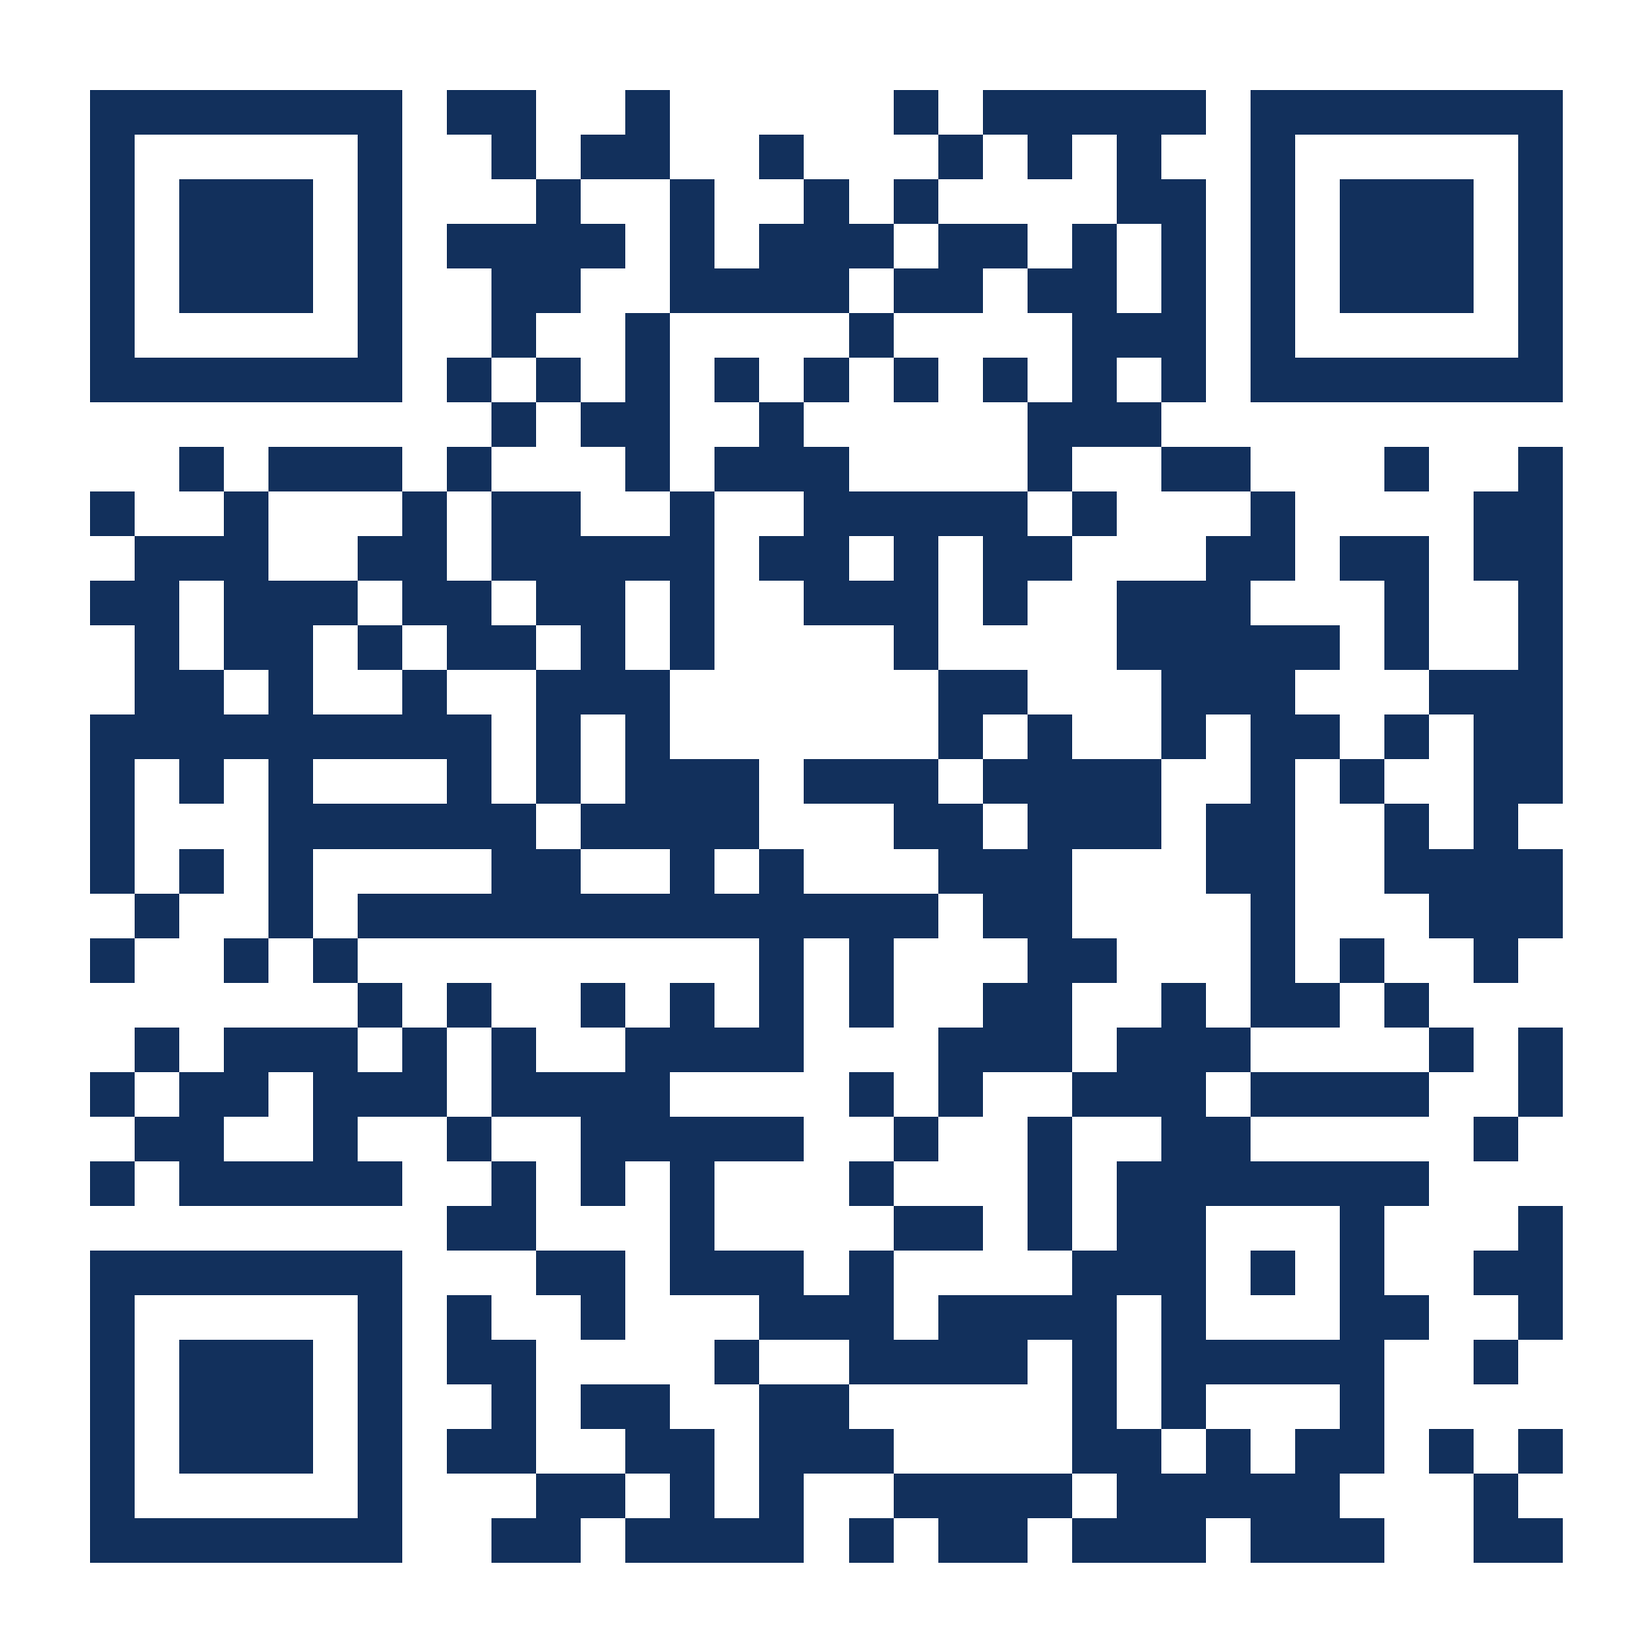
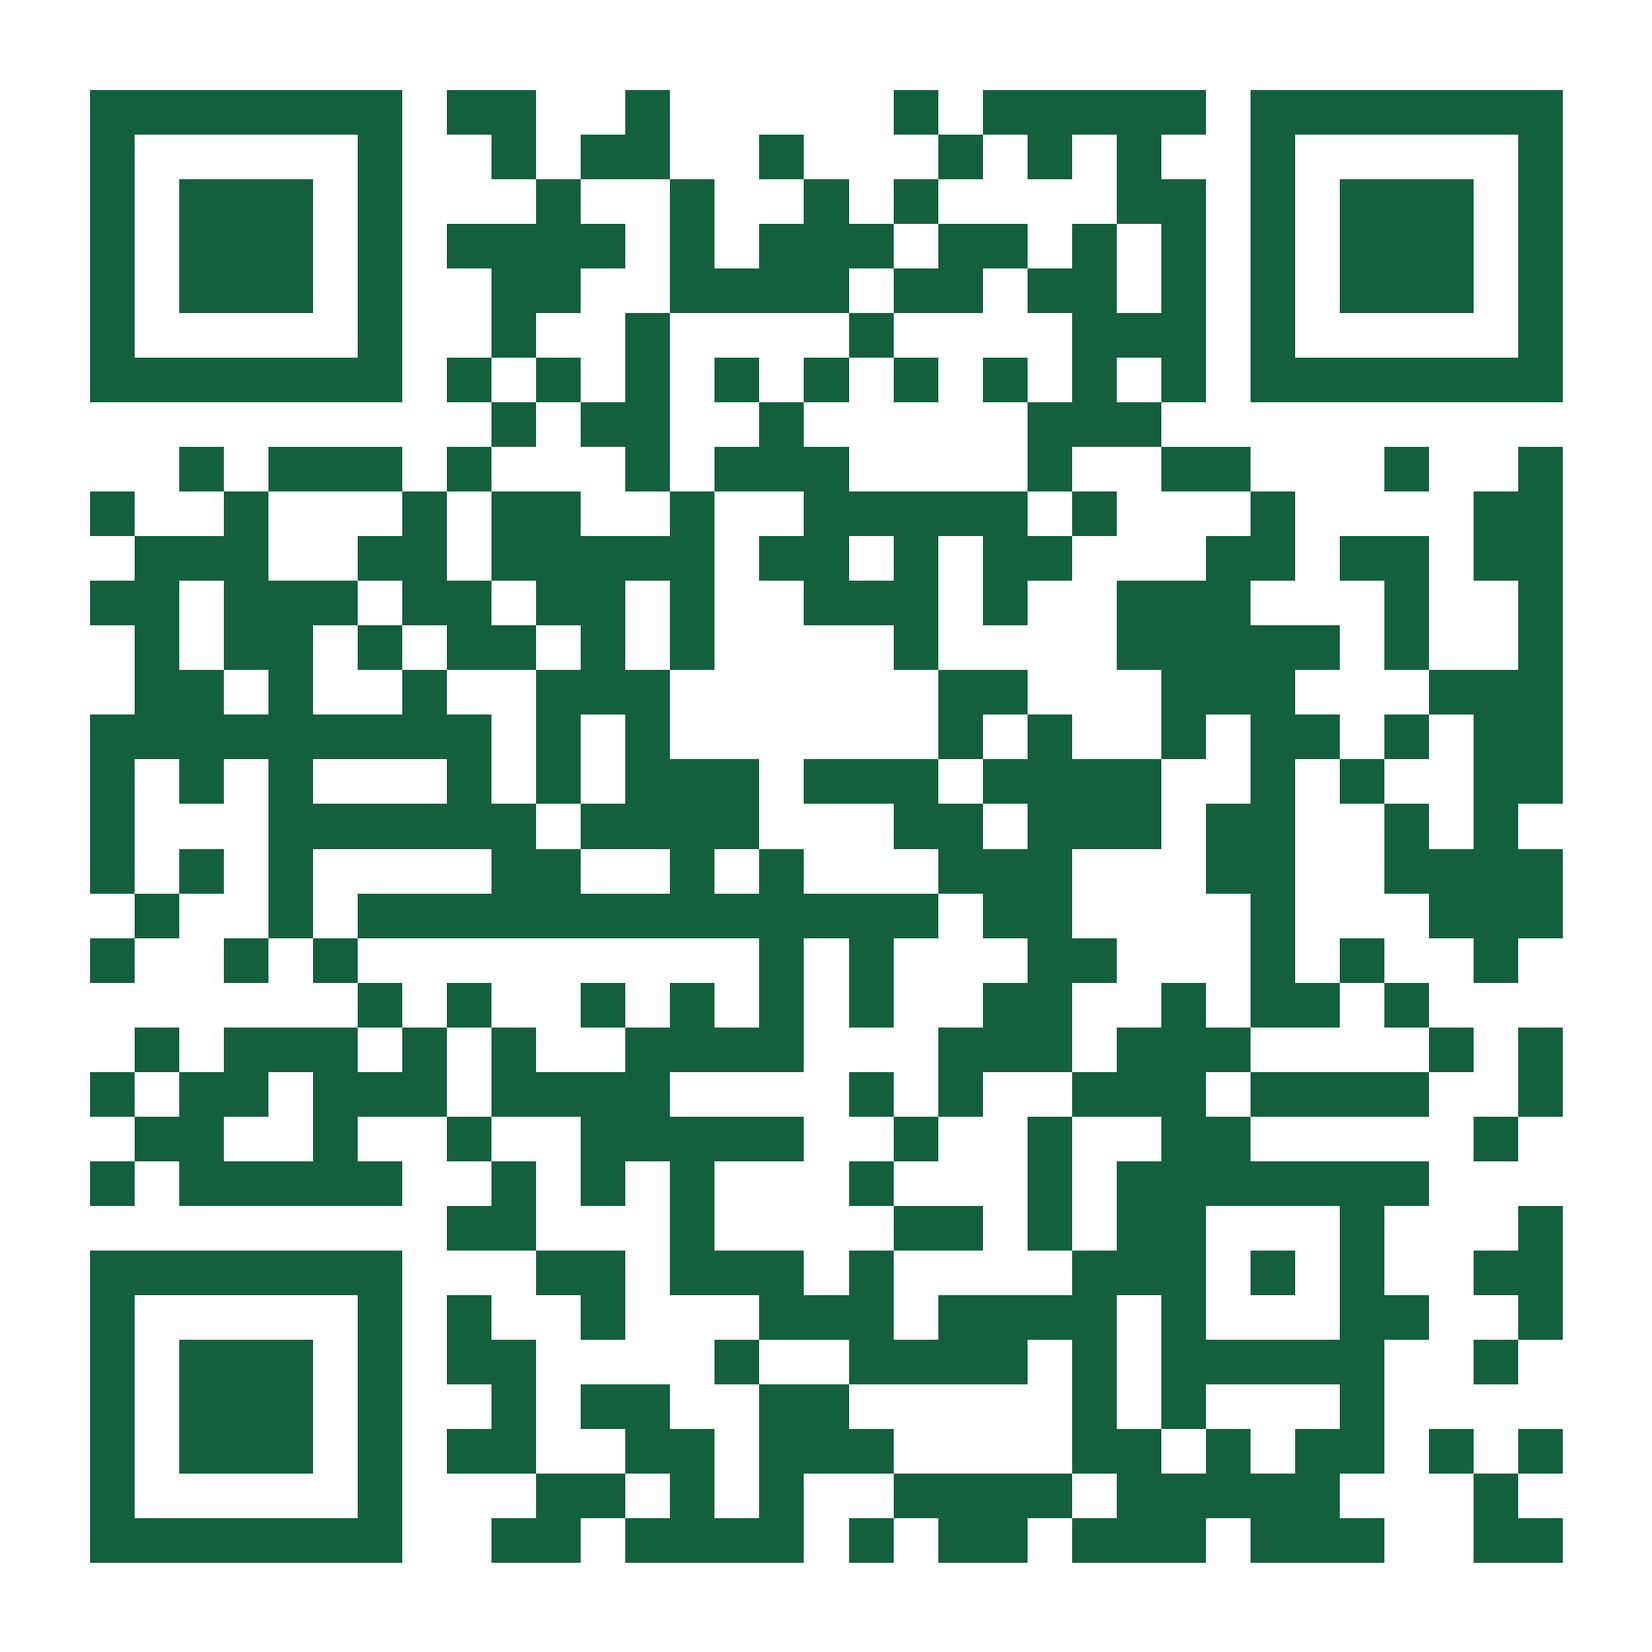
Recolor the photo wall green to match the site
Swaps the placeholder navy palette for a deep school green, keeping the
gold accent. Renames the CSS variables from --navy to --green as well, so
the names still describe what they hold.

Also recolors the QR codes and the printable table tents, and regenerates
the code files. Verified the green codes still decode to the right URL,
both from the PNGs and from the sign as a browser renders it — contrast
matters for scanning, so this isn't safe to assume.

The exact shade is a single value at the top of photos/index.html and is
easy to change once the live site's green is confirmed.

Claude-Session: https://claude.ai/code/session_01MLZYPyuEck4Eg8xHK2qmxk

diff --git a/qr/print-signs.html b/qr/print-signs.html
@@ -5,7 +5,7 @@
 <meta name="viewport" content="width=device-width, initial-scale=1">
 <title>Reunion Photo Wall — Printable Signs</title>
 <style>
-:root{--navy:#12305c;--gold:#c8952b;--cream:#f7f4ed}
+:root{--green:#14603c;--gold:#c8952b;--cream:#f7f4ed}
 *{margin:0;padding:0;box-sizing:border-box}
 body{font-family:Georgia,"Times New Roman",serif;background:#e8e6e0;color:#1a1a1a}
 
@@ -22,11 +22,11 @@ body{font-family:Georgia,"Times New Roman",serif;background:#e8e6e0;color:#1a1a1
 
 .kicker{font-family:-apple-system,BlinkMacSystemFont,"Segoe UI",sans-serif;font-size:11pt;
   letter-spacing:.18em;text-transform:uppercase;color:var(--gold);font-weight:700;margin-bottom:6px}
-h1{font-size:30pt;color:var(--navy);line-height:1.1;margin-bottom:8px}
+h1{font-size:30pt;color:var(--green);line-height:1.1;margin-bottom:8px}
 .sub{font-size:13pt;color:#4a4a4a;margin-bottom:16px;max-width:5in}
 .qr{width:2.5in;height:2.5in;border:10px solid #fff;outline:1px solid #e0ddd5}
 .url{font-family:-apple-system,BlinkMacSystemFont,"Segoe UI",sans-serif;font-size:12pt;font-weight:700;
-  color:var(--navy);margin-top:14px;letter-spacing:.01em}
+  color:var(--green);margin-top:14px;letter-spacing:.01em}
 .steps{font-family:-apple-system,BlinkMacSystemFont,"Segoe UI",sans-serif;font-size:10pt;color:#6b6b6b;margin-top:8px}
 
 @media print{
@@ -44,7 +44,7 @@ h1{font-size:30pt;color:var(--navy);line-height:1.1;margin-bottom:8px}
   <strong>How to use this sheet</strong>
   Print on regular Letter paper (portrait). You get two identical cards per page — cut along the dashed
   line and fold or stand them on the tables. Print as many pages as you need tents. The QR is vector, so
-  it stays sharp at any size. Check "Background graphics" in your print dialog so the navy and gold show up.
+  it stays sharp at any size. Check "Background graphics" in your print dialog so the green and gold show up.
 </div>
 
 <div class="page">
@@ -54,7 +54,7 @@ h1{font-size:30pt;color:var(--navy);line-height:1.1;margin-bottom:8px}
     <div class="sub">Point your phone camera at the code &mdash; your pictures go straight up on the reunion photo wall.</div>
     <svg class="qr" viewBox="0 0 37 37" shape-rendering="crispEdges" xmlns="http://www.w3.org/2000/svg">
       <path fill="#ffffff" d="M0 0h37v37H0z"/>
-      <path stroke="#12305c" d="M2 2.5h7m1 0h2m2 0h1m5 0h1m1 0h5m1 0h7M2 3.5h1m5 0h1m2 0h1m1 0h2m2 0h1m3 0h1m1 0h1m1 0h1m2 0h1m5 0h1M2 4.5h1m1 0h3m1 0h1m3 0h1m2 0h1m2 0h1m1 0h1m4 0h2m1 0h1m1 0h3m1 0h1M2 5.5h1m1 0h3m1 0h1m1 0h4m1 0h1m1 0h3m1 0h2m1 0h1m1 0h1m1 0h1m1 0h3m1 0h1M2 6.5h1m1 0h3m1 0h1m2 0h2m2 0h4m1 0h2m1 0h2m1 0h1m1 0h1m1 0h3m1 0h1M2 7.5h1m5 0h1m2 0h1m2 0h1m4 0h1m4 0h3m1 0h1m5 0h1M2 8.5h7m1 0h1m1 0h1m1 0h1m1 0h1m1 0h1m1 0h1m1 0h1m1 0h1m1 0h1m1 0h7M11 9.5h1m1 0h2m2 0h1m5 0h3M4 10.5h1m1 0h3m1 0h1m3 0h1m1 0h3m4 0h1m2 0h2m3 0h1m2 0h1M2 11.5h1m2 0h1m3 0h1m1 0h2m2 0h1m2 0h5m1 0h1m3 0h1m4 0h2M3 12.5h3m2 0h2m1 0h5m1 0h2m1 0h1m1 0h2m3 0h2m1 0h2m1 0h2M2 13.5h2m1 0h3m1 0h2m1 0h2m1 0h1m2 0h3m1 0h1m2 0h3m3 0h1m2 0h1M3 14.5h1m1 0h2m1 0h1m1 0h2m1 0h1m1 0h1m4 0h1m4 0h5m1 0h1m2 0h1M3 15.5h2m1 0h1m2 0h1m2 0h3m6 0h2m3 0h3m3 0h3M2 16.5h9m1 0h1m1 0h1m6 0h1m1 0h1m2 0h1m1 0h2m1 0h1m1 0h2M2 17.5h1m1 0h1m1 0h1m3 0h1m1 0h1m1 0h3m1 0h3m1 0h4m2 0h1m1 0h1m2 0h2M2 18.5h1m3 0h6m1 0h4m3 0h2m1 0h3m1 0h2m2 0h1m1 0h1M2 19.5h1m1 0h1m1 0h1m4 0h2m2 0h1m1 0h1m3 0h3m3 0h2m2 0h4M3 20.5h1m2 0h1m1 0h13m1 0h2m4 0h1m3 0h3M2 21.5h1m2 0h1m1 0h1m9 0h1m1 0h1m3 0h2m3 0h1m1 0h1m2 0h1M8 22.5h1m1 0h1m2 0h1m1 0h1m1 0h1m1 0h1m2 0h2m2 0h1m1 0h2m1 0h1M3 23.5h1m1 0h3m1 0h1m1 0h1m2 0h4m3 0h3m1 0h3m4 0h1m1 0h1M2 24.5h1m1 0h2m1 0h3m1 0h4m4 0h1m1 0h1m2 0h3m1 0h4m2 0h1M3 25.5h2m2 0h1m2 0h1m2 0h5m2 0h1m2 0h1m2 0h2m5 0h1M2 26.5h1m1 0h5m2 0h1m1 0h1m1 0h1m3 0h1m3 0h1m1 0h7M10 27.5h2m3 0h1m4 0h2m1 0h1m1 0h2m3 0h1m3 0h1M2 28.5h7m3 0h2m1 0h3m1 0h1m4 0h3m1 0h1m1 0h1m2 0h2M2 29.5h1m5 0h1m1 0h1m2 0h1m3 0h3m1 0h4m1 0h1m3 0h2m2 0h1M2 30.5h1m1 0h3m1 0h1m1 0h2m4 0h1m2 0h4m1 0h1m1 0h5m2 0h1M2 31.5h1m1 0h3m1 0h1m2 0h1m1 0h2m2 0h2m5 0h1m1 0h1m3 0h1M2 32.5h1m1 0h3m1 0h1m1 0h2m2 0h2m1 0h3m4 0h2m1 0h1m1 0h2m1 0h1m1 0h1M2 33.5h1m5 0h1m3 0h2m1 0h1m1 0h1m2 0h4m1 0h5m3 0h1M2 34.5h7m2 0h2m1 0h4m1 0h1m1 0h2m1 0h3m1 0h3m2 0h2"/>
+      <path stroke="#14603c" d="M2 2.5h7m1 0h2m2 0h1m5 0h1m1 0h5m1 0h7M2 3.5h1m5 0h1m2 0h1m1 0h2m2 0h1m3 0h1m1 0h1m1 0h1m2 0h1m5 0h1M2 4.5h1m1 0h3m1 0h1m3 0h1m2 0h1m2 0h1m1 0h1m4 0h2m1 0h1m1 0h3m1 0h1M2 5.5h1m1 0h3m1 0h1m1 0h4m1 0h1m1 0h3m1 0h2m1 0h1m1 0h1m1 0h1m1 0h3m1 0h1M2 6.5h1m1 0h3m1 0h1m2 0h2m2 0h4m1 0h2m1 0h2m1 0h1m1 0h1m1 0h3m1 0h1M2 7.5h1m5 0h1m2 0h1m2 0h1m4 0h1m4 0h3m1 0h1m5 0h1M2 8.5h7m1 0h1m1 0h1m1 0h1m1 0h1m1 0h1m1 0h1m1 0h1m1 0h1m1 0h1m1 0h7M11 9.5h1m1 0h2m2 0h1m5 0h3M4 10.5h1m1 0h3m1 0h1m3 0h1m1 0h3m4 0h1m2 0h2m3 0h1m2 0h1M2 11.5h1m2 0h1m3 0h1m1 0h2m2 0h1m2 0h5m1 0h1m3 0h1m4 0h2M3 12.5h3m2 0h2m1 0h5m1 0h2m1 0h1m1 0h2m3 0h2m1 0h2m1 0h2M2 13.5h2m1 0h3m1 0h2m1 0h2m1 0h1m2 0h3m1 0h1m2 0h3m3 0h1m2 0h1M3 14.5h1m1 0h2m1 0h1m1 0h2m1 0h1m1 0h1m4 0h1m4 0h5m1 0h1m2 0h1M3 15.5h2m1 0h1m2 0h1m2 0h3m6 0h2m3 0h3m3 0h3M2 16.5h9m1 0h1m1 0h1m6 0h1m1 0h1m2 0h1m1 0h2m1 0h1m1 0h2M2 17.5h1m1 0h1m1 0h1m3 0h1m1 0h1m1 0h3m1 0h3m1 0h4m2 0h1m1 0h1m2 0h2M2 18.5h1m3 0h6m1 0h4m3 0h2m1 0h3m1 0h2m2 0h1m1 0h1M2 19.5h1m1 0h1m1 0h1m4 0h2m2 0h1m1 0h1m3 0h3m3 0h2m2 0h4M3 20.5h1m2 0h1m1 0h13m1 0h2m4 0h1m3 0h3M2 21.5h1m2 0h1m1 0h1m9 0h1m1 0h1m3 0h2m3 0h1m1 0h1m2 0h1M8 22.5h1m1 0h1m2 0h1m1 0h1m1 0h1m1 0h1m2 0h2m2 0h1m1 0h2m1 0h1M3 23.5h1m1 0h3m1 0h1m1 0h1m2 0h4m3 0h3m1 0h3m4 0h1m1 0h1M2 24.5h1m1 0h2m1 0h3m1 0h4m4 0h1m1 0h1m2 0h3m1 0h4m2 0h1M3 25.5h2m2 0h1m2 0h1m2 0h5m2 0h1m2 0h1m2 0h2m5 0h1M2 26.5h1m1 0h5m2 0h1m1 0h1m1 0h1m3 0h1m3 0h1m1 0h7M10 27.5h2m3 0h1m4 0h2m1 0h1m1 0h2m3 0h1m3 0h1M2 28.5h7m3 0h2m1 0h3m1 0h1m4 0h3m1 0h1m1 0h1m2 0h2M2 29.5h1m5 0h1m1 0h1m2 0h1m3 0h3m1 0h4m1 0h1m3 0h2m2 0h1M2 30.5h1m1 0h3m1 0h1m1 0h2m4 0h1m2 0h4m1 0h1m1 0h5m2 0h1M2 31.5h1m1 0h3m1 0h1m2 0h1m1 0h2m2 0h2m5 0h1m1 0h1m3 0h1M2 32.5h1m1 0h3m1 0h1m1 0h2m2 0h2m1 0h3m4 0h2m1 0h1m1 0h2m1 0h1m1 0h1M2 33.5h1m5 0h1m3 0h2m1 0h1m1 0h1m2 0h4m1 0h5m3 0h1M2 34.5h7m2 0h2m1 0h4m1 0h1m1 0h2m1 0h3m1 0h3m2 0h2"/>
     </svg>
     <div class="url">southhigh76.com/photos</div>
     <div class="steps">No app, no sign-up &middot; See everyone else&rsquo;s photos too</div>
@@ -65,7 +65,7 @@ h1{font-size:30pt;color:var(--navy);line-height:1.1;margin-bottom:8px}
     <div class="sub">Point your phone camera at the code &mdash; your pictures go straight up on the reunion photo wall.</div>
     <svg class="qr" viewBox="0 0 37 37" shape-rendering="crispEdges" xmlns="http://www.w3.org/2000/svg">
       <path fill="#ffffff" d="M0 0h37v37H0z"/>
-      <path stroke="#12305c" d="M2 2.5h7m1 0h2m2 0h1m5 0h1m1 0h5m1 0h7M2 3.5h1m5 0h1m2 0h1m1 0h2m2 0h1m3 0h1m1 0h1m1 0h1m2 0h1m5 0h1M2 4.5h1m1 0h3m1 0h1m3 0h1m2 0h1m2 0h1m1 0h1m4 0h2m1 0h1m1 0h3m1 0h1M2 5.5h1m1 0h3m1 0h1m1 0h4m1 0h1m1 0h3m1 0h2m1 0h1m1 0h1m1 0h1m1 0h3m1 0h1M2 6.5h1m1 0h3m1 0h1m2 0h2m2 0h4m1 0h2m1 0h2m1 0h1m1 0h1m1 0h3m1 0h1M2 7.5h1m5 0h1m2 0h1m2 0h1m4 0h1m4 0h3m1 0h1m5 0h1M2 8.5h7m1 0h1m1 0h1m1 0h1m1 0h1m1 0h1m1 0h1m1 0h1m1 0h1m1 0h1m1 0h7M11 9.5h1m1 0h2m2 0h1m5 0h3M4 10.5h1m1 0h3m1 0h1m3 0h1m1 0h3m4 0h1m2 0h2m3 0h1m2 0h1M2 11.5h1m2 0h1m3 0h1m1 0h2m2 0h1m2 0h5m1 0h1m3 0h1m4 0h2M3 12.5h3m2 0h2m1 0h5m1 0h2m1 0h1m1 0h2m3 0h2m1 0h2m1 0h2M2 13.5h2m1 0h3m1 0h2m1 0h2m1 0h1m2 0h3m1 0h1m2 0h3m3 0h1m2 0h1M3 14.5h1m1 0h2m1 0h1m1 0h2m1 0h1m1 0h1m4 0h1m4 0h5m1 0h1m2 0h1M3 15.5h2m1 0h1m2 0h1m2 0h3m6 0h2m3 0h3m3 0h3M2 16.5h9m1 0h1m1 0h1m6 0h1m1 0h1m2 0h1m1 0h2m1 0h1m1 0h2M2 17.5h1m1 0h1m1 0h1m3 0h1m1 0h1m1 0h3m1 0h3m1 0h4m2 0h1m1 0h1m2 0h2M2 18.5h1m3 0h6m1 0h4m3 0h2m1 0h3m1 0h2m2 0h1m1 0h1M2 19.5h1m1 0h1m1 0h1m4 0h2m2 0h1m1 0h1m3 0h3m3 0h2m2 0h4M3 20.5h1m2 0h1m1 0h13m1 0h2m4 0h1m3 0h3M2 21.5h1m2 0h1m1 0h1m9 0h1m1 0h1m3 0h2m3 0h1m1 0h1m2 0h1M8 22.5h1m1 0h1m2 0h1m1 0h1m1 0h1m1 0h1m2 0h2m2 0h1m1 0h2m1 0h1M3 23.5h1m1 0h3m1 0h1m1 0h1m2 0h4m3 0h3m1 0h3m4 0h1m1 0h1M2 24.5h1m1 0h2m1 0h3m1 0h4m4 0h1m1 0h1m2 0h3m1 0h4m2 0h1M3 25.5h2m2 0h1m2 0h1m2 0h5m2 0h1m2 0h1m2 0h2m5 0h1M2 26.5h1m1 0h5m2 0h1m1 0h1m1 0h1m3 0h1m3 0h1m1 0h7M10 27.5h2m3 0h1m4 0h2m1 0h1m1 0h2m3 0h1m3 0h1M2 28.5h7m3 0h2m1 0h3m1 0h1m4 0h3m1 0h1m1 0h1m2 0h2M2 29.5h1m5 0h1m1 0h1m2 0h1m3 0h3m1 0h4m1 0h1m3 0h2m2 0h1M2 30.5h1m1 0h3m1 0h1m1 0h2m4 0h1m2 0h4m1 0h1m1 0h5m2 0h1M2 31.5h1m1 0h3m1 0h1m2 0h1m1 0h2m2 0h2m5 0h1m1 0h1m3 0h1M2 32.5h1m1 0h3m1 0h1m1 0h2m2 0h2m1 0h3m4 0h2m1 0h1m1 0h2m1 0h1m1 0h1M2 33.5h1m5 0h1m3 0h2m1 0h1m1 0h1m2 0h4m1 0h5m3 0h1M2 34.5h7m2 0h2m1 0h4m1 0h1m1 0h2m1 0h3m1 0h3m2 0h2"/>
+      <path stroke="#14603c" d="M2 2.5h7m1 0h2m2 0h1m5 0h1m1 0h5m1 0h7M2 3.5h1m5 0h1m2 0h1m1 0h2m2 0h1m3 0h1m1 0h1m1 0h1m2 0h1m5 0h1M2 4.5h1m1 0h3m1 0h1m3 0h1m2 0h1m2 0h1m1 0h1m4 0h2m1 0h1m1 0h3m1 0h1M2 5.5h1m1 0h3m1 0h1m1 0h4m1 0h1m1 0h3m1 0h2m1 0h1m1 0h1m1 0h1m1 0h3m1 0h1M2 6.5h1m1 0h3m1 0h1m2 0h2m2 0h4m1 0h2m1 0h2m1 0h1m1 0h1m1 0h3m1 0h1M2 7.5h1m5 0h1m2 0h1m2 0h1m4 0h1m4 0h3m1 0h1m5 0h1M2 8.5h7m1 0h1m1 0h1m1 0h1m1 0h1m1 0h1m1 0h1m1 0h1m1 0h1m1 0h1m1 0h7M11 9.5h1m1 0h2m2 0h1m5 0h3M4 10.5h1m1 0h3m1 0h1m3 0h1m1 0h3m4 0h1m2 0h2m3 0h1m2 0h1M2 11.5h1m2 0h1m3 0h1m1 0h2m2 0h1m2 0h5m1 0h1m3 0h1m4 0h2M3 12.5h3m2 0h2m1 0h5m1 0h2m1 0h1m1 0h2m3 0h2m1 0h2m1 0h2M2 13.5h2m1 0h3m1 0h2m1 0h2m1 0h1m2 0h3m1 0h1m2 0h3m3 0h1m2 0h1M3 14.5h1m1 0h2m1 0h1m1 0h2m1 0h1m1 0h1m4 0h1m4 0h5m1 0h1m2 0h1M3 15.5h2m1 0h1m2 0h1m2 0h3m6 0h2m3 0h3m3 0h3M2 16.5h9m1 0h1m1 0h1m6 0h1m1 0h1m2 0h1m1 0h2m1 0h1m1 0h2M2 17.5h1m1 0h1m1 0h1m3 0h1m1 0h1m1 0h3m1 0h3m1 0h4m2 0h1m1 0h1m2 0h2M2 18.5h1m3 0h6m1 0h4m3 0h2m1 0h3m1 0h2m2 0h1m1 0h1M2 19.5h1m1 0h1m1 0h1m4 0h2m2 0h1m1 0h1m3 0h3m3 0h2m2 0h4M3 20.5h1m2 0h1m1 0h13m1 0h2m4 0h1m3 0h3M2 21.5h1m2 0h1m1 0h1m9 0h1m1 0h1m3 0h2m3 0h1m1 0h1m2 0h1M8 22.5h1m1 0h1m2 0h1m1 0h1m1 0h1m1 0h1m2 0h2m2 0h1m1 0h2m1 0h1M3 23.5h1m1 0h3m1 0h1m1 0h1m2 0h4m3 0h3m1 0h3m4 0h1m1 0h1M2 24.5h1m1 0h2m1 0h3m1 0h4m4 0h1m1 0h1m2 0h3m1 0h4m2 0h1M3 25.5h2m2 0h1m2 0h1m2 0h5m2 0h1m2 0h1m2 0h2m5 0h1M2 26.5h1m1 0h5m2 0h1m1 0h1m1 0h1m3 0h1m3 0h1m1 0h7M10 27.5h2m3 0h1m4 0h2m1 0h1m1 0h2m3 0h1m3 0h1M2 28.5h7m3 0h2m1 0h3m1 0h1m4 0h3m1 0h1m1 0h1m2 0h2M2 29.5h1m5 0h1m1 0h1m2 0h1m3 0h3m1 0h4m1 0h1m3 0h2m2 0h1M2 30.5h1m1 0h3m1 0h1m1 0h2m4 0h1m2 0h4m1 0h1m1 0h5m2 0h1M2 31.5h1m1 0h3m1 0h1m2 0h1m1 0h2m2 0h2m5 0h1m1 0h1m3 0h1M2 32.5h1m1 0h3m1 0h1m1 0h2m2 0h2m1 0h3m4 0h2m1 0h1m1 0h2m1 0h1m1 0h1M2 33.5h1m5 0h1m3 0h2m1 0h1m1 0h1m2 0h4m1 0h5m3 0h1M2 34.5h7m2 0h2m1 0h4m1 0h1m1 0h2m1 0h3m1 0h3m2 0h2"/>
     </svg>
     <div class="url">southhigh76.com/photos</div>
     <div class="steps">No app, no sign-up &middot; See everyone else&rsquo;s photos too</div>

diff --git a/photos/index.html b/photos/index.html
@@ -5,7 +5,7 @@
 <meta name="viewport" content="width=device-width, initial-scale=1, viewport-fit=cover">
 <title>Reunion Photos — South High Class of '76</title>
 <meta name="description" content="Share your photos from the South High Class of 1976 reunion.">
-<meta name="theme-color" content="#12305c">
+<meta name="theme-color" content="#14603c">
 <style>
 /* ---------------------------------------------------------------
    Palette. These are placeholders until the main site's stylesheet
@@ -13,8 +13,8 @@
    whole page follows.
    --------------------------------------------------------------- */
 :root{
-  --navy:#12305c;
-  --navy-dark:#0b1f3d;
+  --green:#14603c;
+  --green-dark:#0d4429;
   --gold:#c8952b;
   --cream:#f7f4ed;
   --ink:#1a1a1a;
@@ -23,8 +23,8 @@
   --card:#ffffff;
   --border:#e3e0d8;
   --radius:14px;
-  --shadow:0 2px 14px rgba(11,31,61,.09);
-  --shadow-lg:0 10px 40px rgba(11,31,61,.18);
+  --shadow:0 2px 14px rgba(13,68,41,.09);
+  --shadow-lg:0 10px 40px rgba(13,68,41,.18);
 }
 *{margin:0;padding:0;box-sizing:border-box;-webkit-tap-highlight-color:transparent}
 body{
@@ -36,7 +36,7 @@ img{max-width:100%;display:block}
 .wrap{max-width:1100px;margin:0 auto;padding:0 16px}
 
 /* ---------- header ---------- */
-header{background:var(--navy);color:#fff;padding:28px 0 24px;text-align:center}
+header{background:var(--green);color:#fff;padding:28px 0 24px;text-align:center}
 header .kicker{
   font-size:12px;letter-spacing:.16em;text-transform:uppercase;
   color:var(--gold);font-weight:700;margin-bottom:6px;
@@ -66,16 +66,16 @@ header a.home:hover{color:#fff}
   background:#fff;color:var(--ink);
 }
 .field textarea{resize:vertical;min-height:66px}
-.field input:focus,.field textarea:focus{outline:2px solid var(--navy);outline-offset:-1px;border-color:var(--navy)}
+.field input:focus,.field textarea:focus{outline:2px solid var(--green);outline-offset:-1px;border-color:var(--green)}
 
 /* the honeypot — hidden from people, catnip for bots */
 .hp{position:absolute;left:-9999px;width:1px;height:1px;overflow:hidden}
 
 .drop{
   border:2px dashed var(--border);border-radius:12px;padding:26px 16px;text-align:center;
-  background:#fcfbf8;cursor:pointer;transition:border-color .15s,background .15s;
+  background:#fbfaf6;cursor:pointer;transition:border-color .15s,background .15s;
 }
-.drop:hover,.drop.over{border-color:var(--navy);background:#f4f7fc}
+.drop:hover,.drop.over{border-color:var(--green);background:#f1f7f3}
 .drop .icon{font-size:30px;line-height:1;margin-bottom:8px}
 .drop .big{font-weight:700;font-size:15px}
 .drop .small{color:var(--muted);font-size:13px;margin-top:3px}
@@ -92,10 +92,10 @@ header a.home:hover{color:#fff}
 
 .btn{
   width:100%;margin-top:16px;padding:14px;border:none;border-radius:10px;
-  background:var(--navy);color:#fff;font:inherit;font-size:16px;font-weight:700;cursor:pointer;
+  background:var(--green);color:#fff;font:inherit;font-size:16px;font-weight:700;cursor:pointer;
   transition:background .15s;
 }
-.btn:hover:not(:disabled){background:var(--navy-dark)}
+.btn:hover:not(:disabled){background:var(--green-dark)}
 .btn:disabled{opacity:.55;cursor:not-allowed}
 
 .bar{height:6px;background:var(--border);border-radius:99px;overflow:hidden;margin-top:12px;display:none}
@@ -125,7 +125,7 @@ header a.home:hover{color:#fff}
 .card .ph{aspect-ratio:4/3;background:#e9e6df;cursor:zoom-in}
 .card .ph.unshowable{display:flex;align-items:center;justify-content:center;cursor:default}
 .card .ph.unshowable a{display:flex;flex-direction:column;align-items:center;gap:6px;
-  color:var(--navy);text-decoration:none;font-size:12.5px;font-weight:700}
+  color:var(--green);text-decoration:none;font-size:12.5px;font-weight:700}
 .card .ph.unshowable span:first-child{font-size:26px}
 .card .ph img{width:100%;height:100%;object-fit:cover}
 .card .meta{padding:9px 11px 11px}
@@ -142,7 +142,7 @@ header a.home:hover{color:#fff}
   background:#fff;border-radius:9px;font:inherit;font-weight:700;cursor:pointer}
 
 /* ---------- lightbox ---------- */
-.lb{position:fixed;inset:0;background:rgba(6,14,28,.94);z-index:60;display:none;
+.lb{position:fixed;inset:0;background:rgba(8,28,18,.94);z-index:60;display:none;
   align-items:center;justify-content:center;padding:20px}
 .lb.on{display:flex}
 .lb img{max-width:100%;max-height:78vh;object-fit:contain;border-radius:6px}

diff --git a/photos/admin.html b/photos/admin.html
@@ -6,23 +6,23 @@
 <title>Photo Wall — Moderation</title>
 <meta name="robots" content="noindex, nofollow">
 <style>
-:root{--navy:#12305c;--cream:#f7f4ed;--border:#e3e0d8;--muted:#6b7280;--red:#b3261e}
+:root{--green:#14603c;--cream:#f7f4ed;--border:#e3e0d8;--muted:#6b7280;--red:#b3261e}
 *{margin:0;padding:0;box-sizing:border-box}
 body{font-family:-apple-system,BlinkMacSystemFont,"Segoe UI",Roboto,Helvetica,Arial,sans-serif;
   background:var(--cream);color:#1a1a1a;line-height:1.5}
 .wrap{max-width:1100px;margin:0 auto;padding:0 16px}
-header{background:var(--navy);color:#fff;padding:20px 0}
+header{background:var(--green);color:#fff;padding:20px 0}
 header h1{font-size:20px;font-weight:800}
 header p{font-size:13px;color:rgba(255,255,255,.7);margin-top:2px}
 .gate{max-width:380px;margin:60px auto;background:#fff;border:1px solid var(--border);
-  border-radius:14px;padding:24px;box-shadow:0 2px 14px rgba(11,31,61,.09)}
+  border-radius:14px;padding:24px;box-shadow:0 2px 14px rgba(13,68,41,.09)}
 .gate h2{font-size:17px;margin-bottom:4px}
 .gate p{color:var(--muted);font-size:13.5px;margin-bottom:16px}
 input[type=password]{width:100%;font:inherit;font-size:16px;padding:11px 13px;
   border:1px solid var(--border);border-radius:9px}
 button{font:inherit;cursor:pointer}
 .go{width:100%;margin-top:12px;padding:12px;border:none;border-radius:9px;
-  background:var(--navy);color:#fff;font-weight:700;font-size:15px}
+  background:var(--green);color:#fff;font-weight:700;font-size:15px}
 .err{color:var(--red);font-size:13.5px;margin-top:10px;display:none}
 .err.on{display:block}
 .bar{display:flex;align-items:center;justify-content:space-between;margin:20px 0 14px;gap:12px}

diff --git a/README.md b/README.md
@@ -109,7 +109,7 @@ Print-ready files are in `qr/`:
 - **`print-signs.html`** — open it and print. Two table-tent cards per page,
   cut along the dashed line. Tick "Background graphics" in the print dialog.
 - **`reunion-photos-qr.svg`** — vector, for a banner or anything large
-- **`reunion-photos-qr.png`** — 2000px, navy, for texting or social
+- **`reunion-photos-qr.png`** — 2000px, green, for texting or social
 - **`reunion-photos-qr-black.png`** — plain black, for cheap printing
 
 All of them point to `https://southhigh76.com/photos`. To regenerate — after
